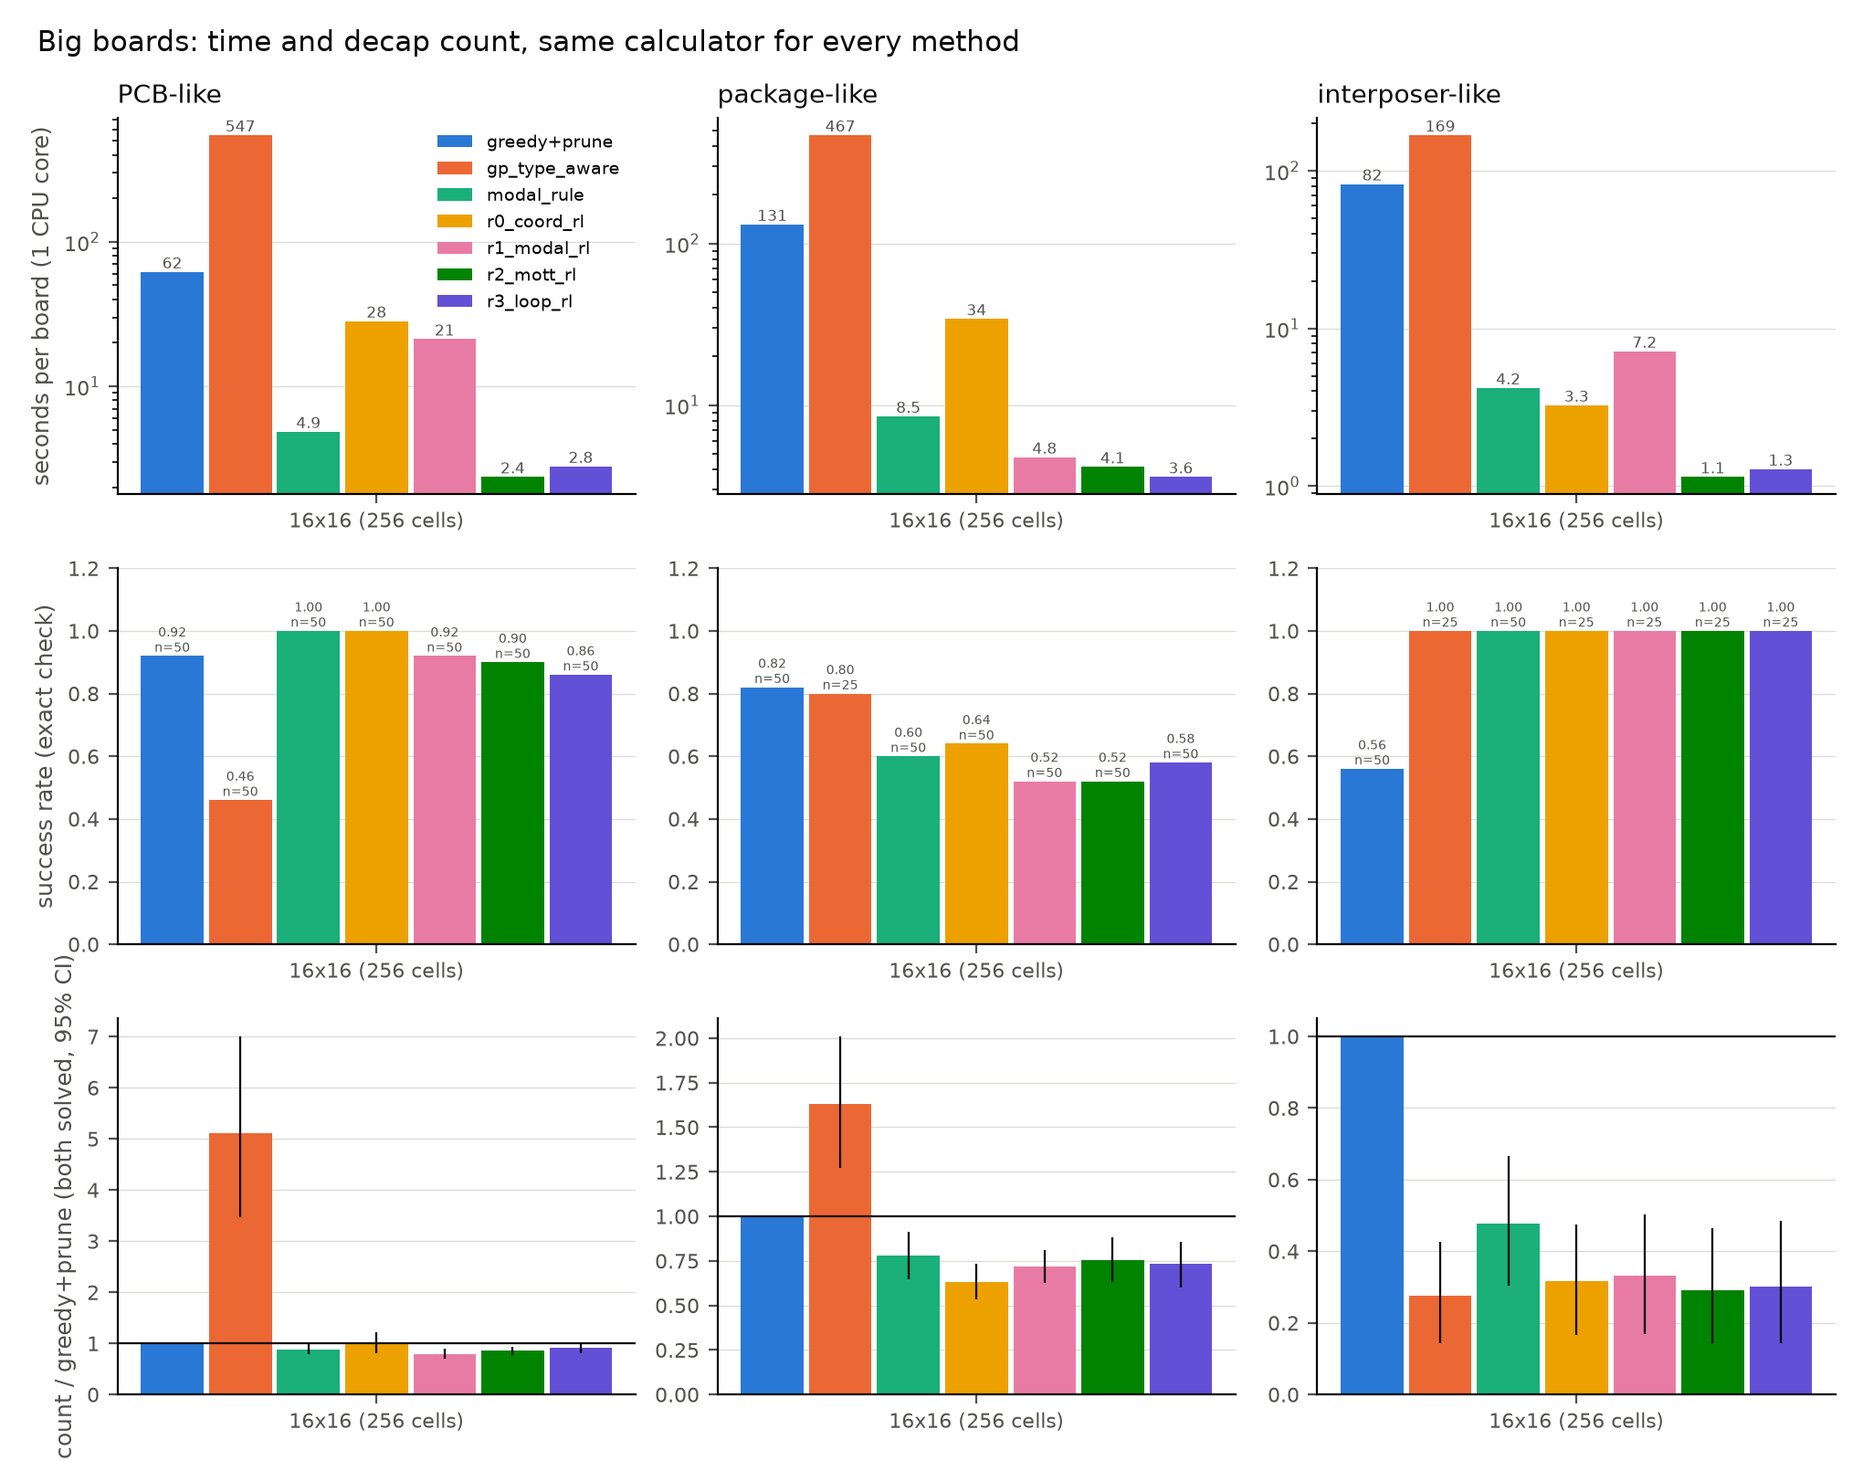
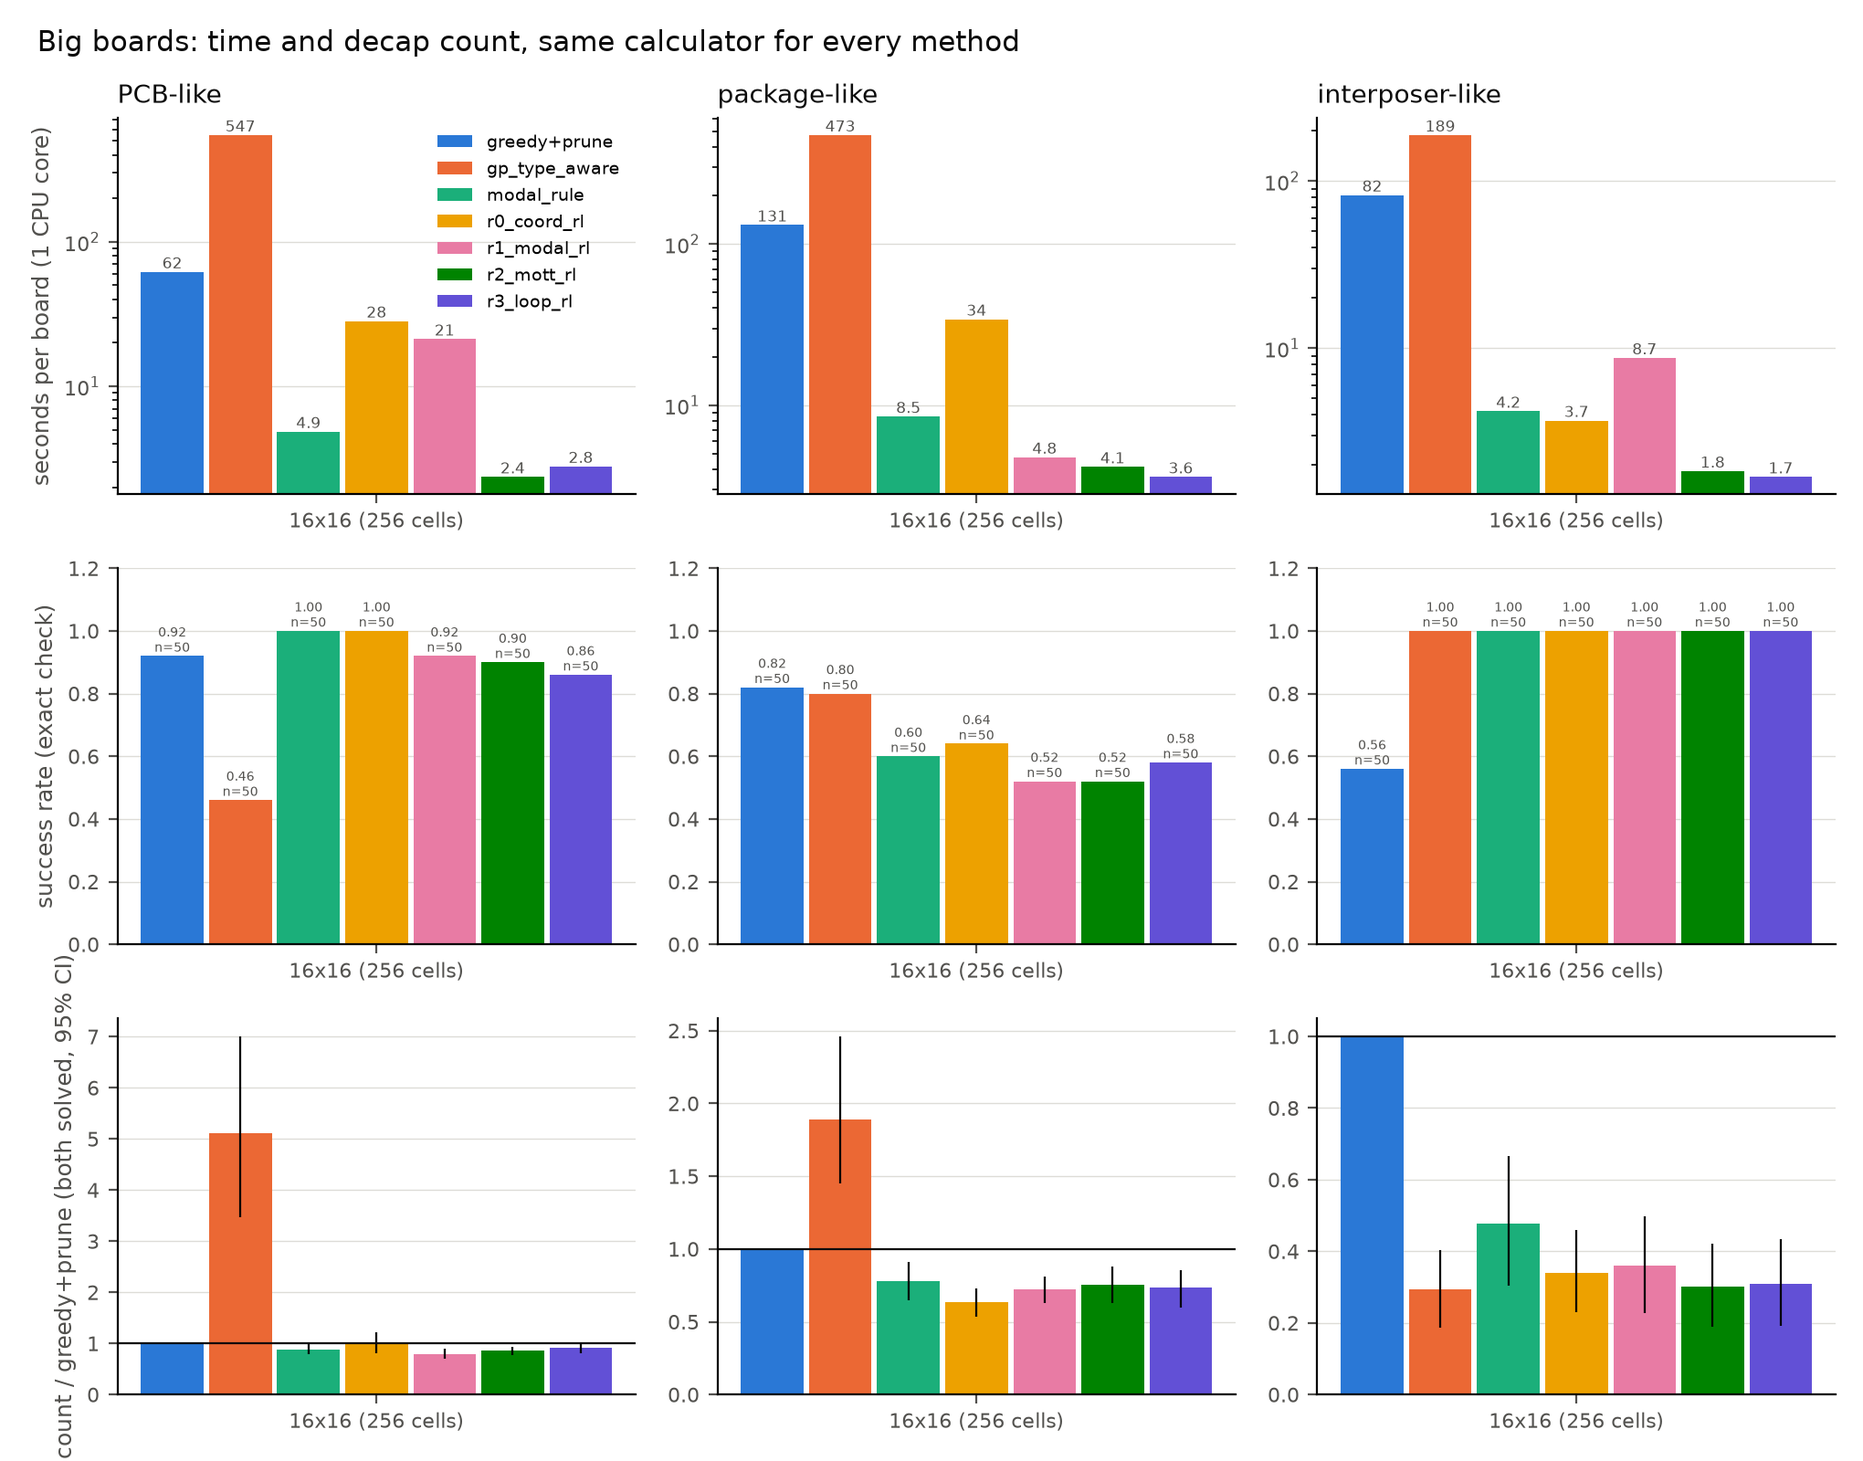
Fig 2 redrawn with complete 16x16 records (rungs 0-3, g+p, E0+, modal_rule: 50 each); GA ip10 both files; PROGRESS round 12

diff --git a/RESULTS.md b/RESULTS.md
@@ -1,4 +1,4 @@
-# RESULTS (자동 생성: `scripts/collect_results.py`, 2026-11-02 19:00 UTC)
+# RESULTS (자동 생성: `scripts/collect_results.py`, 2026-11-02 19:15 UTC)
 
 성공 = `verify.py` 700점 + 피크 정밀화 정확 검사에서 최악 |Z| ≤ 1.01·Zt. 모든 방법은 cutting-plane 안에서 실행. 시간은 문제당 초(판 준비 제외, 같은 CPU 계산기). 손으로 적은 숫자는 없다.
 
@@ -17,7 +17,7 @@
 | bm_manoharan_rlonly_l20_rl | 0.96 / 1.23 / 1.73 [50] | – | 0.00 / – / – [50] | – | 0.88 / 6.59 / 4.63 [50] | – |
 | bp_park_rl | 0.72 / 0.97 / 1.38 [50] | – | 0.46 / 4.86 / 1.13 [50] | – | 0.16 / 3.39 / 3.04 [50] | – |
 | bp_park_rlonly_rl | 0.12 / 6.37 / 9.99 [50] | – | 0.86 / 8.14 / 1.76 [50] | – | 0.86 / 7.05 / 4.87 [50] | – |
-| genetic | 0.40 / 1.07 / 2.27 [25] | – | – | – | – | – |
+| genetic | 0.40 / 1.02 / 2.37 [50] | – | – | – | – | – |
 | lo_ip_r0_rl | 0.56 / 0.94 / 1.66 [50] | – | 1.00 / 0.82 / 0.20 [50] | – | 0.76 / 0.82 / 0.56 [50] | – |
 | lo_ip_r0_s1_rl | 0.98 / 1.00 / 1.45 [50] | – | 0.96 / 0.82 / 0.20 [50] | – | 0.70 / 0.81 / 0.55 [50] | – |
 | lo_ip_r0_s2_rl | 0.40 / 0.98 / 1.60 [50] | – | 1.00 / 0.79 / 0.19 [50] | – | 0.86 / 0.77 / 0.53 [50] | – |
@@ -59,7 +59,7 @@
 | r1_modal_s1_rl | 0.92 / 0.87 / 1.31 [50] | – | 0.84 / 0.78 / 0.19 [50] | – | 0.74 / 0.82 / 0.56 [50] | – |
 | r1_modal_s2_rl | 0.98 / 0.82 / 1.19 [50] | – | 0.96 / 0.80 / 0.18 [50] | – | 0.80 / 0.77 / 0.52 [50] | – |
 | r2_mott_distill | 0.92 / 0.74 / 1.02 [50] | – | 0.78 / 0.94 / 0.23 [50] | – | 0.70 / 0.97 / 0.69 [50] | – |
-| r2_mott_rl | 1.00 / 0.74 / 1.02 [50] | 1.00 / 0.29 / 1.02 [25] | 0.88 / 0.88 / 0.21 [50] | 0.90 / 0.86 / 0.24 [50] | 0.72 / 0.88 / 0.59 [50] | 0.52 / 0.75 / 0.50 [50] |
+| r2_mott_rl | 1.00 / 0.74 / 1.02 [50] | 1.00 / 0.30 / 1.06 [50] | 0.88 / 0.88 / 0.21 [50] | 0.90 / 0.86 / 0.24 [50] | 0.72 / 0.88 / 0.59 [50] | 0.52 / 0.75 / 0.50 [50] |
 | r2_mott_rl@last | 1.00 / 0.74 / 1.02 [50] | – | 0.92 / 0.86 / 0.20 [50] | – | 0.72 / 0.88 / 0.59 [50] | – |
 | r2_mott_s1_rl | 1.00 / 0.74 / 1.01 [50] | – | 0.78 / 0.89 / 0.19 [50] | – | 0.84 / 0.84 / 0.57 [50] | – |
 | r2_mott_s1_rl@best | – | – | 0.78 / 0.89 / 0.19 [50] | – | 0.84 / 0.84 / 0.57 [50] | – |
@@ -75,7 +75,7 @@
 | r2c_rl | 1.00 / 0.74 / 1.01 [50] | – | 0.90 / 0.82 / 0.19 [50] | – | 0.80 / 0.87 / 0.59 [50] | – |
 | r2v_rl | 0.96 / 0.74 / 1.01 [50] | – | 0.90 / 0.82 / 0.20 [50] | – | 0.72 / 0.87 / 0.62 [50] | – |
 | r3_loop_distill | 0.82 / 0.77 / 1.03 [50] | – | 0.84 / 0.86 / 0.24 [50] | – | 0.80 / 0.89 / 0.65 [50] | – |
-| r3_loop_rl | 0.98 / 0.74 / 1.01 [50] | 1.00 / 0.30 / 1.01 [25] | 0.84 / 0.84 / 0.22 [50] | 0.86 / 0.91 / 0.26 [50] | 0.88 / 0.84 / 0.59 [50] | 0.58 / 0.73 / 0.46 [50] |
+| r3_loop_rl | 0.98 / 0.74 / 1.01 [50] | 1.00 / 0.31 / 1.01 [50] | 0.84 / 0.84 / 0.22 [50] | 0.86 / 0.91 / 0.26 [50] | 0.88 / 0.84 / 0.59 [50] | 0.58 / 0.73 / 0.46 [50] |
 | r3_loop_rl@R16 | 1.00 / 0.74 / 1.01 [50] | – | 0.78 / 0.89 / 0.26 [50] | – | 0.78 / 0.83 / 0.57 [50] | – |
 | r3_loop_rl@R2 | 1.00 / 0.74 / 1.01 [50] | – | 0.90 / 0.88 / 0.20 [50] | – | 0.74 / 0.84 / 0.59 [50] | – |
 | r3_loop_rl@R4 | 1.00 / 0.74 / 1.01 [50] | – | 0.88 / 0.85 / 0.21 [50] | – | 0.88 / 0.82 / 0.59 [50] | – |
@@ -97,7 +97,7 @@ genetic = 문제마다 GA (`decap_loop/baselines.py` `genetic`, 개체 64 × 100
 | ip 10 | bm_manoharan_rlonly_l20_rl | 50 | -0.04 [-0.10, +0.00] | 1.731 [1.575, 1.889] |
 | ip 10 | bp_park_rl | 50 | -0.28 [-0.42, -0.16] | 1.383 [1.216, 1.567] |
 | ip 10 | bp_park_rlonly_rl | 50 | -0.88 [-0.96, -0.78] | 9.987 [7.446, 12.868] |
-| ip 10 | genetic | 25 | -0.60 [-0.80, -0.40] | 2.272 [1.292, 3.480] |
+| ip 10 | genetic | 50 | -0.60 [-0.72, -0.46] | 2.373 [1.524, 3.410] |
 | ip 10 | lo_ip_r0_rl | 50 | -0.44 [-0.58, -0.30] | 1.662 [1.403, 2.039] |
 | ip 10 | lo_ip_r0_s1_rl | 50 | -0.02 [-0.06, +0.00] | 1.452 [1.259, 1.777] |
 | ip 10 | lo_ip_r0_s2_rl | 50 | -0.60 [-0.72, -0.46] | 1.596 [1.228, 2.221] |
@@ -163,8 +163,8 @@ genetic = 문제마다 GA (`decap_loop/baselines.py` `genetic`, 개체 64 × 100
 | ip 16 | modal_rule | 50 | +0.00 [+0.00, +0.00] | 1.590 [1.449, 1.745] |
 | ip 16 | r0_coord_rl | 50 | +0.00 [+0.00, +0.00] | 1.445 [1.284, 1.626] |
 | ip 16 | r1_modal_rl | 50 | +0.00 [+0.00, +0.00] | 1.294 [1.217, 1.376] |
-| ip 16 | r2_mott_rl | 25 | +0.00 [+0.00, +0.00] | 1.021 [1.000, 1.052] |
-| ip 16 | r3_loop_rl | 25 | +0.00 [+0.00, +0.00] | 1.015 [1.000, 1.045] |
+| ip 16 | r2_mott_rl | 50 | +0.00 [+0.00, +0.00] | 1.059 [1.002, 1.161] |
+| ip 16 | r3_loop_rl | 50 | +0.00 [+0.00, +0.00] | 1.014 [1.001, 1.032] |
 | pcb 10 | greedy+prune | 50 | +0.24 [+0.08, +0.40] | 0.341 [0.247, 0.449] |
 | pcb 10 | local_search | 50 | +0.12 [-0.06, +0.30] | 0.237 [0.156, 0.349] |
 | pcb 10 | bm_manoharan_rl | 50 | -0.66 [-0.78, -0.54] | – [–, –] |
@@ -329,7 +329,7 @@ genetic = 문제마다 GA (`decap_loop/baselines.py` `genetic`, 개체 64 × 100
 | ip 10 | bm_manoharan_rlonly_l20_rl | 50 | +0.56 [+0.40, +0.70] | 1.225 [0.913, 1.535] |
 | ip 10 | bp_park_rl | 50 | +0.32 [+0.14, +0.48] | 0.975 [0.689, 1.266] |
 | ip 10 | bp_park_rlonly_rl | 50 | -0.28 [-0.40, -0.16] | 6.365 [4.015, 8.500] |
-| ip 10 | genetic | 25 | +0.00 [-0.12, +0.12] | 1.073 [0.970, 1.270] |
+| ip 10 | genetic | 50 | +0.00 [-0.08, +0.08] | 1.021 [0.908, 1.141] |
 | ip 10 | lo_ip_r0_rl | 50 | +0.16 [+0.00, +0.32] | 0.943 [0.729, 1.163] |
 | ip 10 | lo_ip_r0_s1_rl | 50 | +0.58 [+0.44, +0.72] | 1.004 [0.778, 1.272] |
 | ip 10 | lo_ip_r0_s2_rl | 50 | +0.00 [-0.10, +0.10] | 0.976 [0.778, 1.188] |
@@ -395,8 +395,8 @@ genetic = 문제마다 GA (`decap_loop/baselines.py` `genetic`, 개체 64 × 100
 | ip 16 | modal_rule | 50 | +0.44 [+0.30, +0.58] | 0.478 [0.300, 0.676] |
 | ip 16 | r0_coord_rl | 50 | +0.44 [+0.30, +0.58] | 0.341 [0.229, 0.467] |
 | ip 16 | r1_modal_rl | 50 | +0.44 [+0.30, +0.58] | 0.359 [0.233, 0.501] |
-| ip 16 | r2_mott_rl | 25 | +0.36 [+0.16, +0.56] | 0.292 [0.145, 0.487] |
-| ip 16 | r3_loop_rl | 25 | +0.36 [+0.16, +0.56] | 0.300 [0.145, 0.509] |
+| ip 16 | r2_mott_rl | 50 | +0.44 [+0.30, +0.58] | 0.302 [0.190, 0.433] |
+| ip 16 | r3_loop_rl | 50 | +0.44 [+0.30, +0.58] | 0.308 [0.192, 0.447] |
 | pcb 10 | gp_type_aware | 50 | -0.24 [-0.40, -0.08] | 4.834 [3.848, 5.842] |
 | pcb 10 | local_search | 50 | -0.12 [-0.22, -0.02] | 0.745 [0.674, 0.813] |
 | pcb 10 | bm_manoharan_rl | 50 | -0.90 [-0.98, -0.82] | – [–, –] |
@@ -566,8 +566,8 @@ genetic = 문제마다 GA (`decap_loop/baselines.py` `genetic`, 개체 64 × 100
 | ip 10 | r3a_rl | 50 | +0.06 [+0.00, +0.14] | 0.714 [0.656, 0.775] |
 | ip 16 | r0_coord_rl | 50 | +0.00 [+0.00, +0.00] | 1.031 [0.873, 1.214] |
 | ip 16 | r1_modal_rl | 50 | +0.00 [+0.00, +0.00] | 0.919 [0.808, 1.030] |
-| ip 16 | r2_mott_rl | 25 | +0.00 [+0.00, +0.00] | 0.664 [0.598, 0.732] |
-| ip 16 | r3_loop_rl | 25 | +0.00 [+0.00, +0.00] | 0.658 [0.595, 0.722] |
+| ip 16 | r2_mott_rl | 50 | +0.00 [+0.00, +0.00] | 0.728 [0.659, 0.812] |
+| ip 16 | r3_loop_rl | 50 | +0.00 [+0.00, +0.00] | 0.698 [0.646, 0.749] |
 | pcb 10 | bm_manoharan_rl | 50 | -1.00 [-1.00, -1.00] | – [–, –] |
 | pcb 10 | bp_park_rl | 50 | -0.54 [-0.68, -0.40] | 5.337 [4.241, 6.630] |
 | pcb 10 | r0_coord_rl | 50 | -0.04 [-0.10, +0.00] | 0.971 [0.915, 1.033] |
@@ -624,7 +624,7 @@ genetic = 문제마다 GA (`decap_loop/baselines.py` `genetic`, 개체 64 × 100
 | 판 | 방법 | 문제 수 | 성공률 차 (방법 − 기준) [95% CI] | 개수 비 방법/기준 (둘 다 성공) [95% CI] |
 |---|---|---|---|---|
 | ip 10 | r3_loop_rl | 50 | -0.02 [-0.06, +0.00] | 1.005 [0.991, 1.021] |
-| ip 16 | r3_loop_rl | 25 | +0.00 [+0.00, +0.00] | 0.996 [0.975, 1.012] |
+| ip 16 | r3_loop_rl | 50 | +0.00 [+0.00, +0.00] | 0.986 [0.954, 1.006] |
 | pcb 10 | r3_loop_rl | 50 | -0.04 [-0.16, +0.08] | 1.061 [0.994, 1.130] |
 | pcb 16 | r3_loop_rl | 50 | -0.04 [-0.18, +0.10] | 1.062 [0.994, 1.135] |
 | pkg 10 | r3_loop_rl | 50 | +0.16 [+0.06, +0.28] | 0.959 [0.909, 1.008] |
@@ -724,7 +724,7 @@ genetic = 문제마다 GA (`decap_loop/baselines.py` `genetic`, 개체 64 × 100
 | bm_manoharan_rlonly_l20_rl | 50 (0, 1) | 0.96 | 14.21 | 1.225 | 1.731 | 0.133 | `runs/2026-10-29/bm_manoharan_rlonly_l20_rl/eval/eval_ip10_0__bm_manoharan_rlonly_l20_rl.json`, `runs/2026-10-29/bm_manoharan_rlonly_l20_rl/eval/eval_ip10_1__bm_manoharan_rlonly_l20_rl.json` |
 | bp_park_rl | 50 (0, 1) | 0.72 | 9.78 | 0.975 | 1.383 | 2.314 | `runs/2026-10-29/bp_park_rl/eval/eval_ip10_0__bp_park_rl.json`, `runs/2026-10-29/bp_park_rl/eval/eval_ip10_1__bp_park_rl.json` |
 | bp_park_rlonly_rl | 50 (0, 1) | 0.12 | 46.17 | 6.365 | 9.987 | 5.740 | `runs/2026-10-29/bp_park_rlonly_rl/eval/eval_ip10_0__bp_park_rlonly_rl.json`, `runs/2026-10-29/bp_park_rlonly_rl/eval/eval_ip10_1__bp_park_rlonly_rl.json` |
-| genetic | 25 (0) | 0.40 | 12.00 | 1.073 | 2.272 | 10.872 | `runs/2026-10-28/baselines/eval/eval_ip10_0__genetic.json` |
+| genetic | 50 (0, 1) | 0.40 | 12.20 | 1.021 | 2.373 | 9.246 | `runs/2026-10-28/baselines/eval/eval_ip10_0__genetic.json`, `runs/2026-10-28/baselines/eval/eval_ip10_1__genetic.json` |
 | lo_ip_r0_rl | 50 (0, 1) | 0.56 | 13.39 | 0.943 | 1.662 | 7.944 | `runs/2026-10-29/lo_ip_r0_rl/eval/eval_ip10_0__lo_ip_r0_rl.json`, `runs/2026-10-29/lo_ip_r0_rl/eval/eval_ip10_1__lo_ip_r0_rl.json` |
 | lo_ip_r0_s1_rl | 50 (0, 1) | 0.98 | 11.22 | 1.004 | 1.452 | 2.127 | `runs/2026-10-29/lo_ip_r0_s1_rl/eval/eval_ip10_0__lo_ip_r0_s1_rl.json`, `runs/2026-10-29/lo_ip_r0_s1_rl/eval/eval_ip10_1__lo_ip_r0_s1_rl.json` |
 | lo_ip_r0_s2_rl | 50 (0, 1) | 0.40 | 7.30 | 0.976 | 1.596 | 7.176 | `runs/2026-10-29/lo_ip_r0_s2_rl/eval/eval_ip10_0__lo_ip_r0_s2_rl.json`, `runs/2026-10-29/lo_ip_r0_s2_rl/eval/eval_ip10_1__lo_ip_r0_s2_rl.json` |
@@ -796,8 +796,8 @@ genetic = 문제마다 GA (`decap_loop/baselines.py` `genetic`, 개체 64 × 100
 | modal_rule | 50 (0, 1) | 1.00 | 20.26 | 0.478 | 1.590 | 4.194 | `runs/2026-10-28/baselines/eval/eval_ip16_0__modal_rule.json`, `runs/2026-10-28/baselines/eval/eval_ip16_1__modal_rule.json` |
 | r0_coord_rl | 50 (0, 1) | 1.00 | 20.60 | 0.341 | 1.445 | 3.690 | `runs/2026-10-28/r0_coord_rl/eval/eval_ip16_0__r0_coord_rl.json`, `runs/2026-10-28/r0_coord_rl/eval/eval_ip16_1__r0_coord_rl.json` |
 | r1_modal_rl | 50 (0, 1) | 1.00 | 17.92 | 0.359 | 1.294 | 8.745 | `runs/2026-10-28/r1_modal_rl/eval/eval_ip16_0__r1_modal_rl.json`, `runs/2026-10-28/r1_modal_rl/eval/eval_ip16_1__r1_modal_rl.json` |
-| r2_mott_rl | 25 (0) | 1.00 | 11.96 | 0.292 | 1.021 | 1.142 | `runs/2026-10-28/r2_mott_rl/eval/eval_ip16_0__r2_mott_rl.json` |
-| r3_loop_rl | 25 (0) | 1.00 | 11.64 | 0.300 | 1.015 | 1.280 | `runs/2026-10-28/r3_loop_rl/eval/eval_ip16_0__r3_loop_rl.json` |
+| r2_mott_rl | 50 (0, 1) | 1.00 | 14.64 | 0.302 | 1.059 | 1.837 | `runs/2026-10-28/r2_mott_rl/eval/eval_ip16_0__r2_mott_rl.json`, `runs/2026-10-28/r2_mott_rl/eval/eval_ip16_1__r2_mott_rl.json` |
+| r3_loop_rl | 50 (0, 1) | 1.00 | 13.72 | 0.308 | 1.014 | 1.696 | `runs/2026-10-28/r3_loop_rl/eval/eval_ip16_0__r3_loop_rl.json`, `runs/2026-10-28/r3_loop_rl/eval/eval_ip16_1__r3_loop_rl.json` |
 
 ### pcb 10×10
 
@@ -989,8 +989,8 @@ genetic = 문제마다 GA (`decap_loop/baselines.py` `genetic`, 개체 64 × 100
 | ip 10 | bp_park_rl | 실패 | 14 | 67.6 | 0.26 | 0.00 | 0.74 |
 | ip 10 | bp_park_rlonly_rl | 성공 | 6 | 46.2 | 0.00 | 1.00 | 0.00 |
 | ip 10 | bp_park_rlonly_rl | 실패 | 44 | 73.5 | 0.00 | 1.00 | 0.00 |
-| ip 10 | genetic | 성공 | 10 | 12.0 | 0.45 | 0.02 | 0.53 |
-| ip 10 | genetic | 실패 | 15 | 71.4 | 0.07 | 0.02 | 0.91 |
+| ip 10 | genetic | 성공 | 20 | 12.2 | 0.42 | 0.03 | 0.55 |
+| ip 10 | genetic | 실패 | 30 | 76.6 | 0.06 | 0.02 | 0.92 |
 | ip 10 | gp_type_aware | 성공 | 50 | 8.3 | 1.00 | 0.00 | 0.00 |
 | ip 10 | lo_ip_r0_rl | 성공 | 28 | 13.4 | 0.81 | 0.00 | 0.19 |
 | ip 10 | lo_ip_r0_rl | 실패 | 22 | 73.5 | 0.14 | 0.01 | 0.85 |
@@ -1088,8 +1088,8 @@ genetic = 문제마다 GA (`decap_loop/baselines.py` `genetic`, 개체 64 × 100
 | ip 16 | modal_rule | 성공 | 50 | 20.3 | 1.00 | 0.00 | 0.00 |
 | ip 16 | r0_coord_rl | 성공 | 50 | 20.6 | 0.99 | 0.01 | 0.00 |
 | ip 16 | r1_modal_rl | 성공 | 50 | 17.9 | 0.99 | 0.01 | 0.00 |
-| ip 16 | r2_mott_rl | 성공 | 25 | 12.0 | 0.96 | 0.04 | 0.00 |
-| ip 16 | r3_loop_rl | 성공 | 25 | 11.6 | 1.00 | 0.00 | 0.00 |
+| ip 16 | r2_mott_rl | 성공 | 50 | 14.6 | 0.93 | 0.02 | 0.04 |
+| ip 16 | r3_loop_rl | 성공 | 50 | 13.7 | 1.00 | 0.00 | 0.00 |
 | pcb 10 | greedy+prune | 성공 | 45 | 12.0 | 0.40 | 0.13 | 0.47 |
 | pcb 10 | greedy+prune | 실패 | 5 | 55.2 | 0.76 | 0.05 | 0.19 |
 | pcb 10 | bm_manoharan_rl | 실패 | 50 | 0.4 | 0.00 | 0.00 | 1.00 |
@@ -1423,9 +1423,9 @@ genetic = 문제마다 GA (`decap_loop/baselines.py` `genetic`, 개체 64 × 100
 | eval_ip16_0 | 0 (100 pF, 5 pH, 0.05 Ω) | 1.00 | 11.52 | 0.277 | 0.989 | 0.64 | 1.00 | 1.291 | `runs/analysis/gp_one_type/eval_ip16_0__greedy+prune@type0.json` |
 | eval_ip16_0 | 1 (20 pF, 2 pH, 0.1 Ω) | 0.72 | 70.83 | 2.487 | 9.537 | 0.64 | 1.00 | 49.305 | `runs/analysis/gp_one_type/eval_ip16_0__greedy+prune@type1.json` |
 | eval_ip16_0 | 2 (5 pF, 1 pH, 0.2 Ω) | 0.04 | 143.00 | 23.833 | 47.667 | 0.64 | 1.00 | 117.974 | `runs/analysis/gp_one_type/eval_ip16_0__greedy+prune@type2.json` |
-| eval_ip16_1 | 0 (100 pF, 5 pH, 0.05 Ω) | 1.00 | 15.56 | 0.315 | – | 0.48 | – | 2.981 | `runs/analysis/gp_one_type/eval_ip16_1__greedy+prune@type0.json` |
-| eval_ip16_1 | 1 (20 pF, 2 pH, 0.1 Ω) | 0.52 | 99.23 | 2.486 | – | 0.48 | – | 89.609 | `runs/analysis/gp_one_type/eval_ip16_1__greedy+prune@type1.json` |
-| eval_ip16_1 | 2 (5 pF, 1 pH, 0.2 Ω) | 0.04 | 95.00 | 23.750 | – | 0.48 | – | 115.976 | `runs/analysis/gp_one_type/eval_ip16_1__greedy+prune@type2.json` |
+| eval_ip16_1 | 0 (100 pF, 5 pH, 0.05 Ω) | 1.00 | 15.56 | 0.315 | 0.989 | 0.48 | 1.00 | 2.981 | `runs/analysis/gp_one_type/eval_ip16_1__greedy+prune@type0.json` |
+| eval_ip16_1 | 1 (20 pF, 2 pH, 0.1 Ω) | 0.52 | 99.23 | 2.486 | 9.685 | 0.48 | 1.00 | 89.609 | `runs/analysis/gp_one_type/eval_ip16_1__greedy+prune@type1.json` |
+| eval_ip16_1 | 2 (5 pF, 1 pH, 0.2 Ω) | 0.04 | 95.00 | 23.750 | 31.667 | 0.48 | 1.00 | 115.976 | `runs/analysis/gp_one_type/eval_ip16_1__greedy+prune@type2.json` |
 | eval_pcb10_0 | 0 (10000 pF, 100 pH, 0.02 Ω) | 0.04 | 32.00 | 4.571 | 4.571 | 1.00 | 0.84 | 9.110 | `runs/analysis/gp_one_type/eval_pcb10_0__greedy+prune@type0.json` |
 | eval_pcb10_0 | 1 (1000 pF, 30 pH, 0.05 Ω) | 0.72 | 48.39 | 5.002 | 6.485 | 1.00 | 0.84 | 9.077 | `runs/analysis/gp_one_type/eval_pcb10_0__greedy+prune@type1.json` |
 | eval_pcb10_0 | 2 (100 pF, 10 pH, 0.1 Ω) | 0.00 | – | – | – | 1.00 | 0.84 | 6.620 | `runs/analysis/gp_one_type/eval_pcb10_0__greedy+prune@type2.json` |
@@ -1754,6 +1754,7 @@ cert-bad = 그 iter에서 작업 격자로는 성공인 최선 샘플 중 정확
 | lo_ip_r2_rl | 186 / 306 | – | 1.00 | 5.5 | 0.88 | 9.6 | 0.84 |
 | lo_ip_r2_s1_rl | 169 / 298 | – | 0.66 | 8.0 | 0.92 | 9.9 | 0.80 |
 | lo_ip_r2_s2_rl | 198 / 307 | – | 1.00 | 5.9 | 0.94 | 10.5 | 0.88 |
+| lo_ip_r2a_rl | 9 / – | – | – | 9.0 | – | 8.5 | – |
 | lo_pcb_r0_rl | 227 / 367 | 0.8 | 1.00 | – | 0.60 | 9.1 | 0.64 |
 | lo_pcb_r0_s1_rl | 260 / 389 | 2.3 | 1.00 | – | 0.64 | 9.4 | 0.82 |
 | lo_pcb_r0_s2_rl | 242 / 390 | 1.2 | 0.98 | – | 0.68 | 11.5 | 0.80 |

diff --git a/PROGRESS.md b/PROGRESS.md
@@ -1,4 +1,11 @@
-# PROGRESS (갱신 2026-11-02 19:10 UTC, 재개 라운드 11)
+# PROGRESS (갱신 2026-11-02 19:30 UTC, 재개 라운드 12)
+
+## 재개 라운드 12 (2026-11-02 19:17~ UTC)
+- 상태: GPU `lo_ip_r2a` RL (끝 ~20:12) → lo_pkg_r2a → r2m → lo_pcb_r2m (~00:50). CPU 줄 `eval16 eval_pcb16_0 r2a_rl` 19:18~ (r2a 16칸 6파일 → pool20). 4번째 칸 `ga10 eval_pcb10_0`. pod 9.4 GiB / 60, oom_kill 0. QUEUE 새 지시 없음 (11/02 21:30 KST 절은 라운드 5·10에서 처리).
+- **GA ip10 두 파일 끝 (50문제):** genetic ip 성공 0.40, vs g+p +0.00 [−0.08, +0.08], vs E0+ −0.60 [−0.72, −0.46], 개수÷E0+ 2.37 (RESULTS 자동). pcb10·pkg10은 4번째 칸에서 진행.
+- **16칸 기록 완성 (r0~r3, g+p, E0+, modal_rule 모두 6파일 50문제)** → 그림 2 다시 그림 `reports/fig2_bigboard_draft.png` (`fig_results.py --fig 2 --records 'runs/2026-10-2[89]/*/eval/*16_*.json' --methods greedy+prune,gp_type_aware,modal_rule,r0_coord_rl,r1_modal_rl,r2_mott_rl,r3_loop_rl --sizes 16`). 읽기: 성공 pcb16 g+p 0.92 / E0+ 0.46 / 규칙 1.00 / r0 1.00 / r1 0.92 / r2 0.90 / r3 0.86; pkg16 0.82 / 0.80 / 0.60 / 0.64 / 0.52 / 0.52 / 0.58; ip16 0.56 / 1.00 / 나머지 1.00. ip16 정책 − g+p +0.44 [+0.30, +0.58], 개수÷g+p ~0.30. 문제당 시간 r2·r3 1.7~4.1 s vs g+p 62~131 s (22~48배), E0+ 189~547 s.
+  - 주의 (시간 막대): 같은 방법도 파일 사이 `sec_per_inst`가 ~2배 차이 (r0 pcb16 19.1 / 37.5 s, pkg16 49.3 / 19.0 s) — 공유 CPU에서 다른 작업과 동시에 돈 기록. 그림의 시간은 "같은 기계, 부하 통제 안 함"으로만 쓴다. r0·r1이 r2·r3보다 느린 이유는 확인 안 함.
+- 다음 라운드: lo_ip_r2a 평가 (~20:12 뒤 side_slot) → 라운드 5 판정 (i)·(ii) 확정; r2a 16칸 6파일 끝나면 그림 2에 `r2a_rl` 추가; GA pcb10·pkg10 기록 확인. DAILY 11/03 05:00 UTC.
 
 ## 재개 라운드 11 (2026-11-02 18:58~ UTC)
 - 상태: GPU `lo_ip_r2a` RL 18:56~ (끝 ~20:12) → lo_pkg_r2a → r2m → lo_pcb_r2m (~00:50). CPU 줄 `eval16 eval_ip16_1 r2_mott_rl` (r1 끝, r3 → r2a 16칸 6파일 → pool20 남음). 4번째 칸 `ga10 eval_ip10_1`. pod 13.8 GiB / 60, oom_kill 0.
